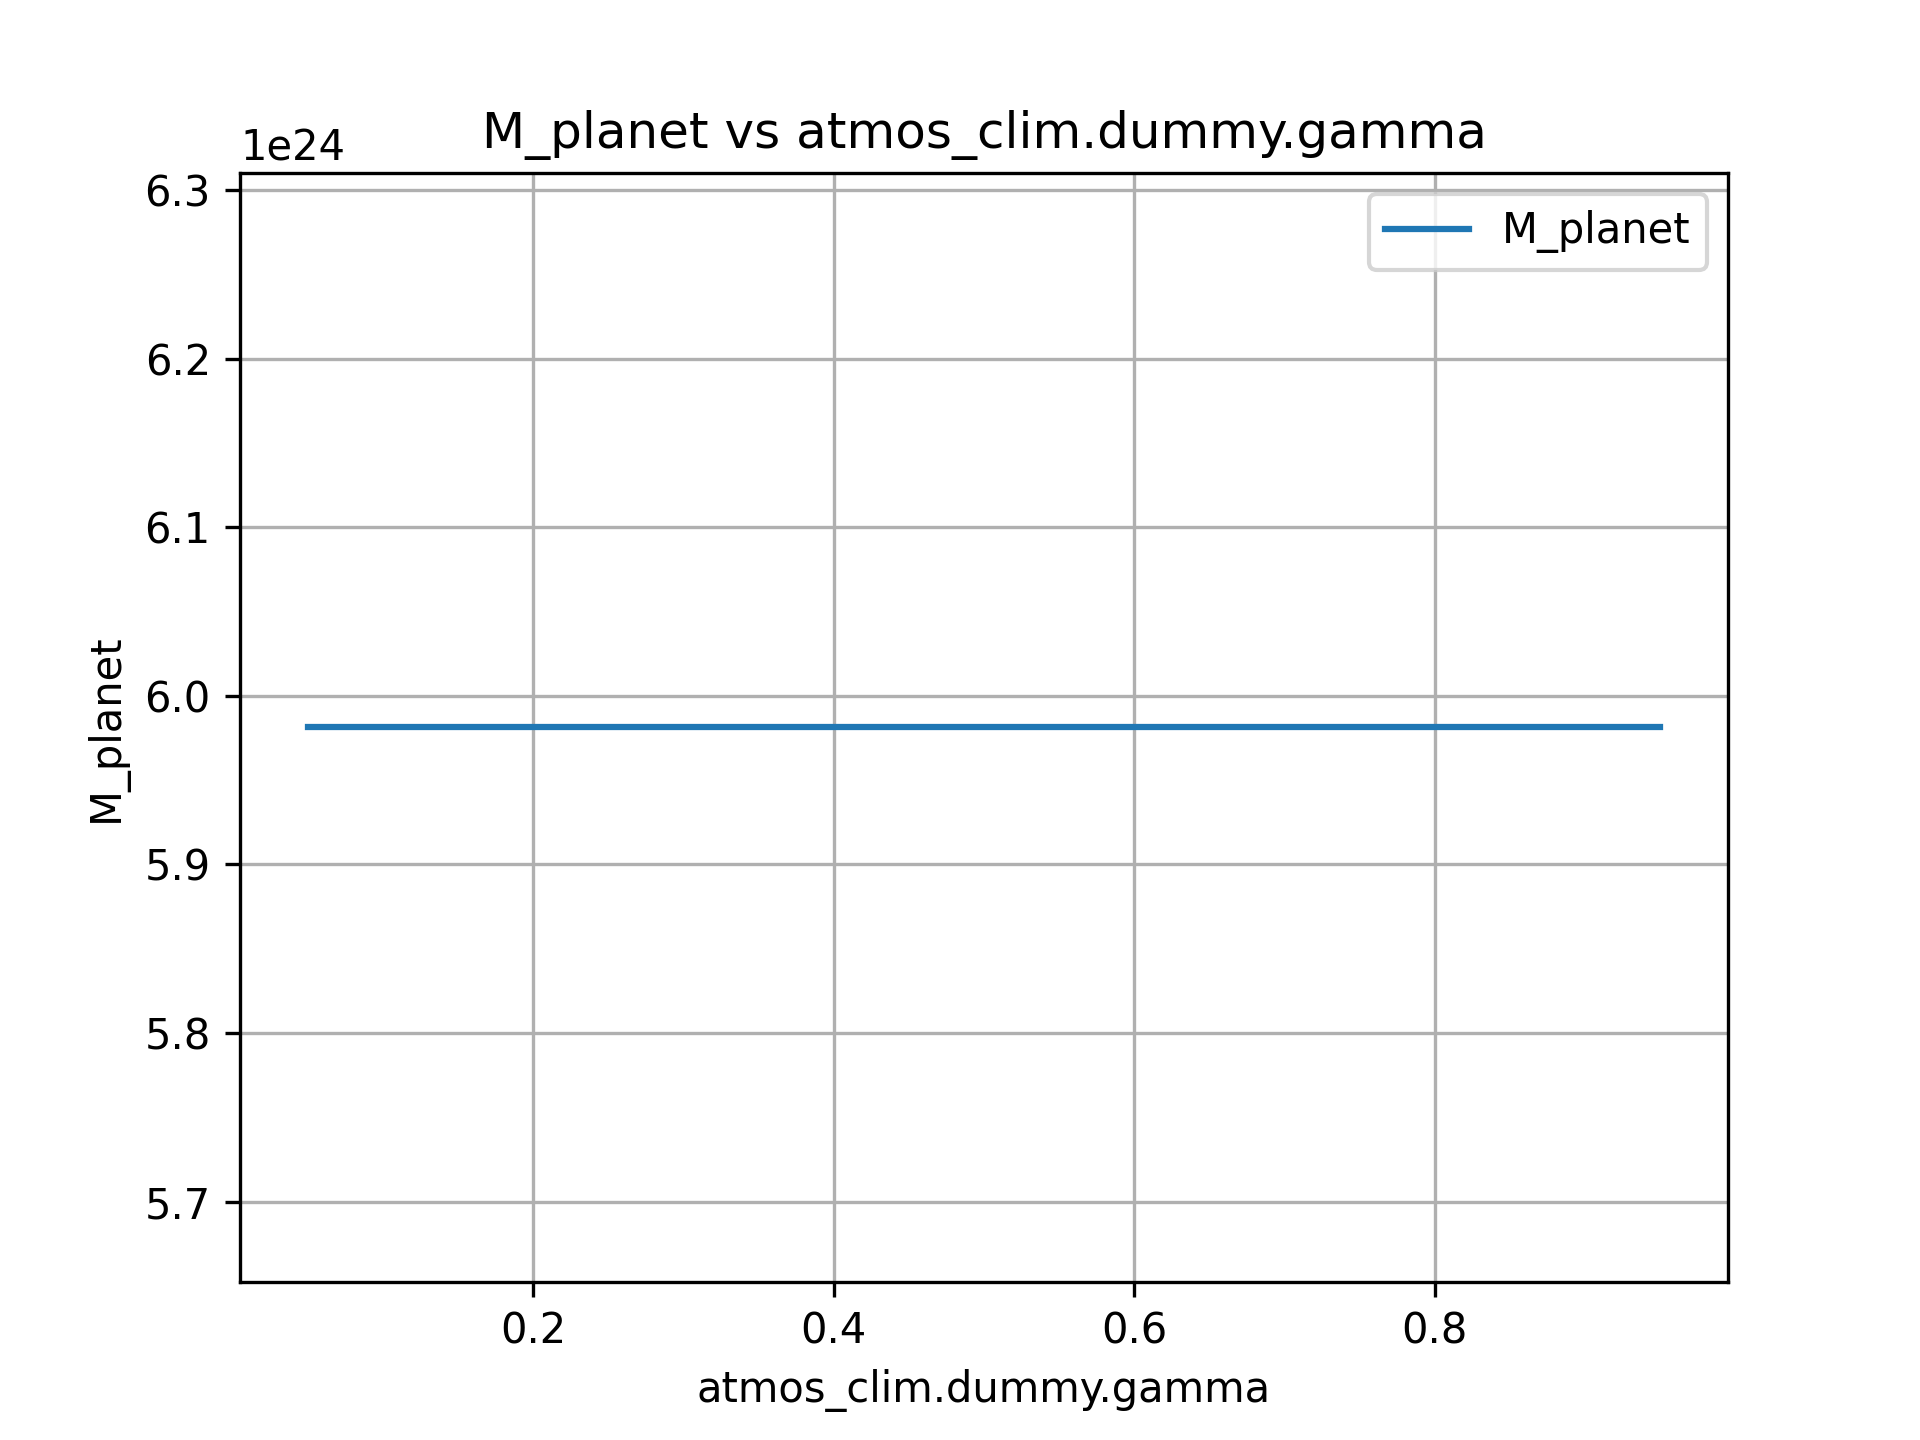
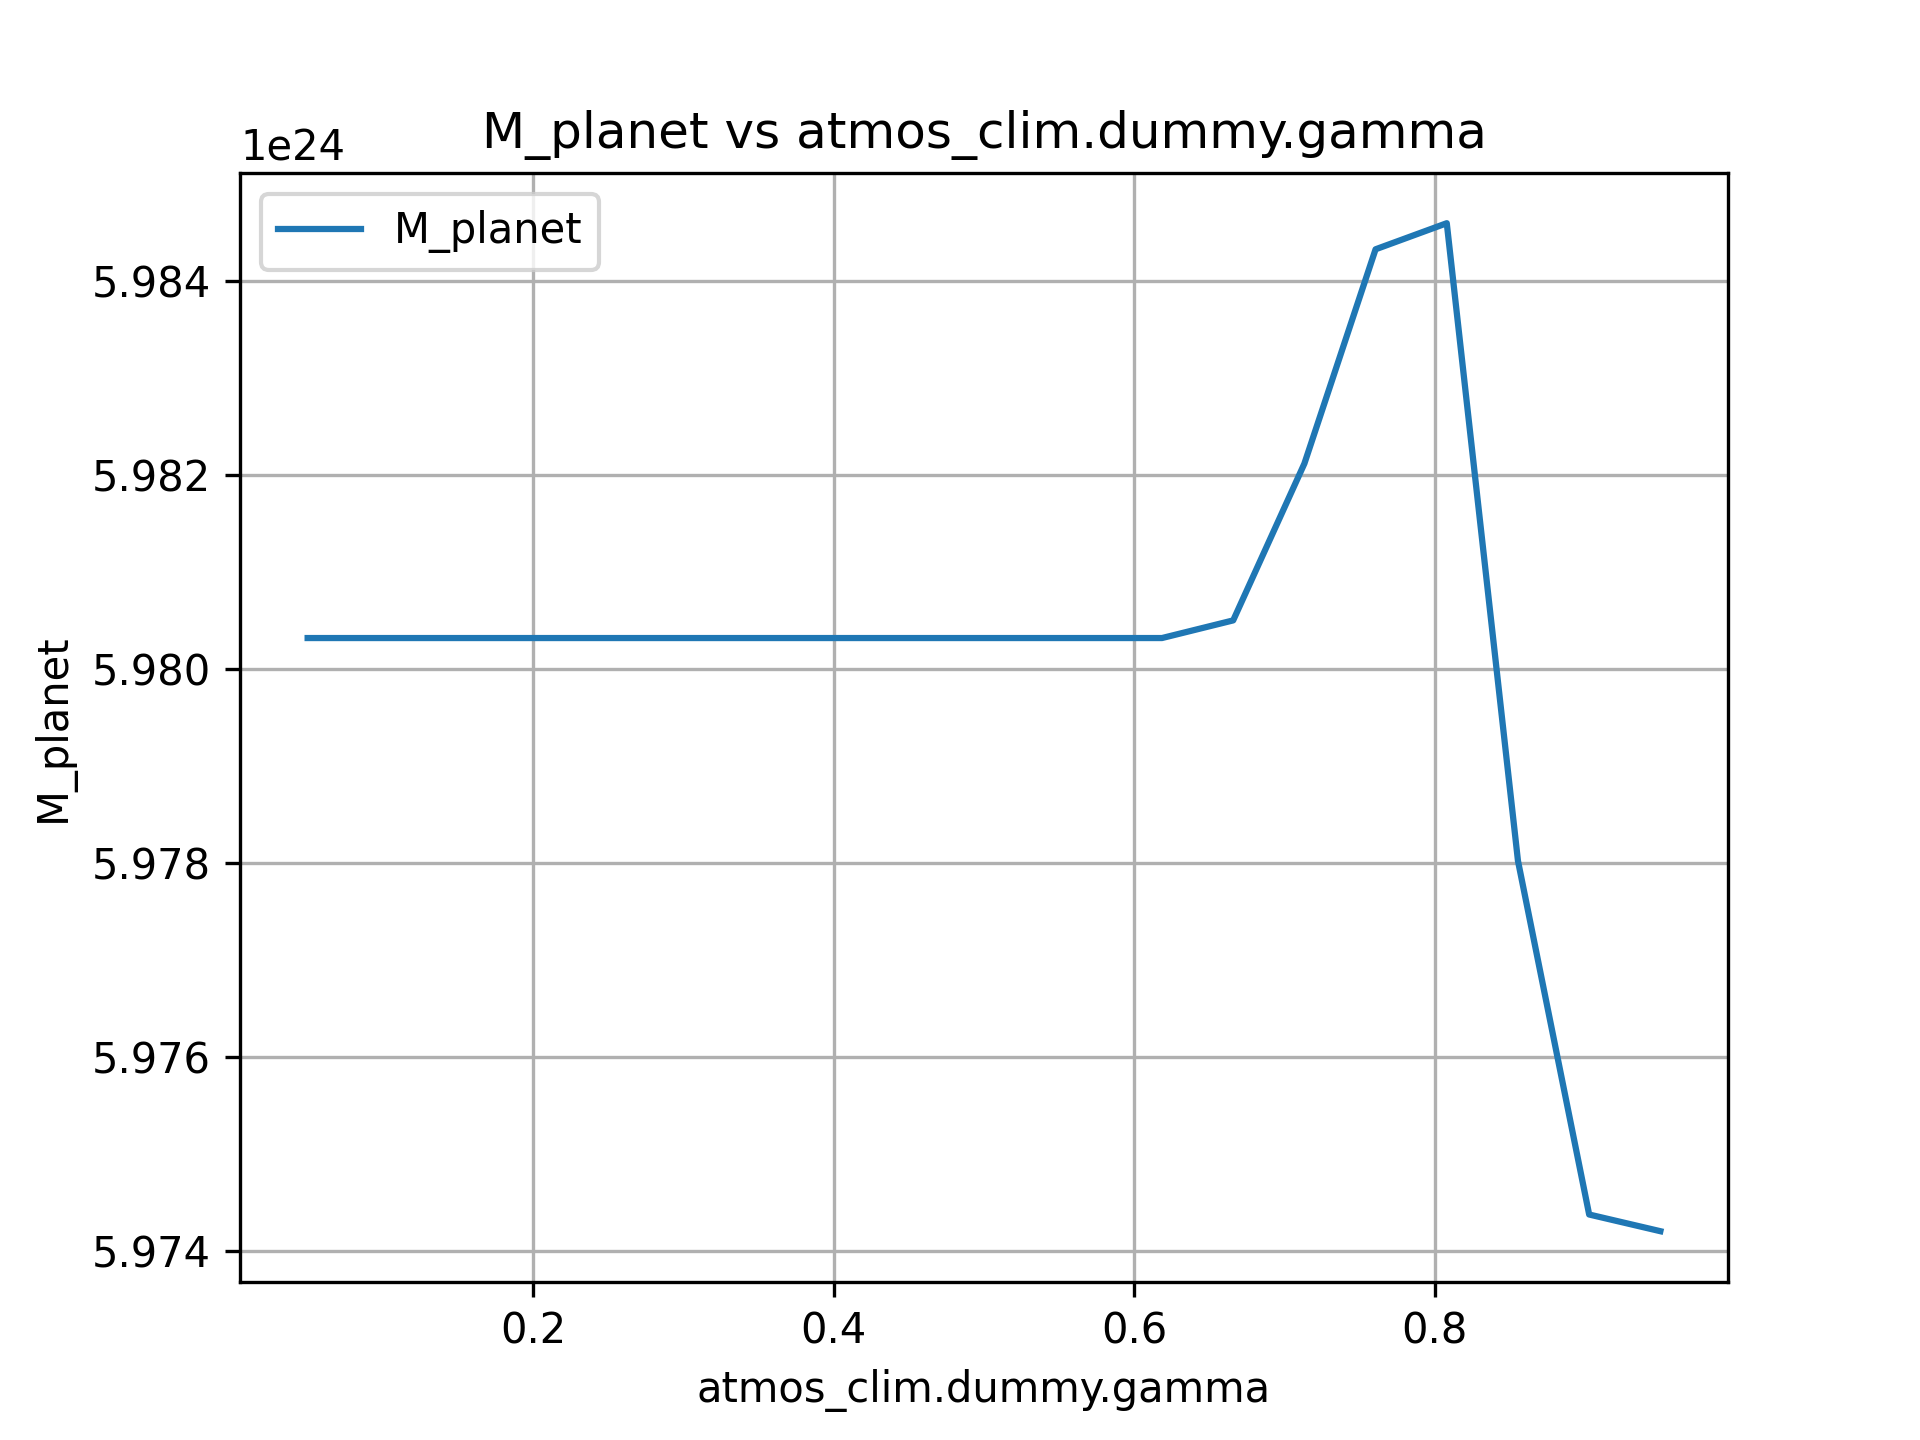
added method to sample data

diff --git a/play_dummy/utils.py b/play_dummy/utils.py
@@ -1,18 +1,30 @@
 import toml
 import subprocess
 import pandas as pd
+import numpy as np
+from tqdm import tqdm
 
-def run_proteus(config_file, output_file):
+def run_proteus(config_file, output_file, observables = None):
     """
     Run the simulator using a .toml configuration file and return the results as a DataFrame.
 
     Parameters:
         config_file (str): Path to the .toml configuration file.
         output_file (str): Path to the simulator's output .csv file.
+        observables (list): PROTEUS output to be returned
 
     Returns:
         pd.DataFrame: Output data loaded into a Pandas DataFrame.
     """
+
+    # the default output
+    if observables == None:
+        observables = [    "z_obs",
+                            "R_int",
+                            "M_planet",
+                            "transit_depth",
+                            "bond_albedo",
+                            "contrast_ratio"]
 
     # Run the simulator as a subprocess
     try:
@@ -30,13 +42,92 @@ def run_proteus(config_file, output_file):
     except FileNotFoundError:
         raise RuntimeError(f"Output file {output_file} not found. Check the simulator configuration.")
 
-    out = df.iloc[-1][[    "z_obs",
-                            "R_int",
-                            "M_planet",
-                            "transit_depth",
-                            "bond_albedo",
-                            "contrast_ratio"]]
-    return out
+    out = df.iloc[-1][observables]
+    return out.T
+
+
+def sample_proteus(n, parameters = None, observables = None):
+
+    """
+    Inputs:
+        n (int): The number of samples to draw
+        parameters (dict | None): If supplied, a dictionary of parameters to sample and their ranges.
+        observables (list | None): If supplied, a list of observables to return.
+
+    Outputs:
+        X (pd.DataFrame): Sampled inputs
+        Y (pd.DataFrame): Calculated outputs
+    """
+
+    # set up paths for calling run_proteus
+    # config and output files will always be overwritten
+
+    # the reference config file
+    dummy_path = "input/demos/dummy.toml"
+
+    # name of new config file
+    run_name = "sample_synth_data"
+
+    # path to new config file (will be created automatically)
+    config_path = "input/gen_synth/" + run_name + ".toml"
+
+    # path to proteus output
+    out_path = "output/" + run_name + "/runtime_helpfile.csv"
+
+    if parameters == None:
+
+        parameters = {"struct.mass_tot": [0.5, 3.0],
+                        "struct.corefrac": [0.3, 0.9],
+
+                        "atmos_clim.surf_greyalbedo": [0.0, 0.51],
+                        "atmos_clim.dummy.gamma": [0.05, 0.95],
+
+                        "escape.dummy.rate": [0.0, 1e5],
+
+                        "interior.dummy.magma": [2000, 4500],
+
+                        "outgas.fO2_shift_IW": [-4.0, 4.0],
+
+                        "delivery.radio_K": [50, 400],
+                        "delivery.elements.H_oceans": [0.5, 18]}
+
+    if observables == None:
+
+        observables = [ "z_obs",
+                        "R_int",
+                        "M_planet",
+                        "transit_depth",
+                        "bond_albedo",
+                        "contrast_ratio"]
+
+    X = []
+    Y = []
+
+    for sample in tqdm(range(n)):
+
+        update_params = {"params.out.path": run_name}
+
+        xs = []
+        for paramter, ran in parameters.items():
+
+            x = np.random.uniform(ran[0], ran[1])
+
+            xs.append(x)
+            update_params[paramter] = x
+
+        X.append(xs)
+
+        update_toml(dummy_path, update_params, config_path)
+
+        ys = run_proteus(config_path, out_path, observables)
+        Y.append(ys)
+
+    X = pd.DataFrame(X, columns=parameters.keys())
+    Y = pd.DataFrame(Y, columns=observables)
+
+    return X, Y
+
+
 
 def update_toml(config_file, updates, output_file=None):
     """

diff --git a/play_dummy/gen_synth.py b/play_dummy/gen_synth.py
@@ -9,11 +9,16 @@ import os
 # run from PROTEUS directory with: python play_dummy/gen_synth.py
 # creates plots and csv files with synthetic data by varying one parameter and keeping all else fixed at dummy config
 
-
+# the refernce config file
 dummy_path = "input/demos/dummy.toml"
 
+# name of new config file
 run_name = "gen_synth_data"
+
+# path to new config file (will be created automatically)
 config_path = "input/gen_synth/" + run_name + ".toml"
+
+# path to proteus output
 out_path = "output/" + run_name + "/runtime_helpfile.csv"
 
 observables = [ "z_obs",
@@ -42,12 +47,13 @@ for parameter, ran in parameters.items():
 
     index = np.linspace(ran[0], ran[1], 20)
 
-    graph_df = pd.DataFrame(columns=(["index"].append(observables)))
+    #graph_df = pd.DataFrame(columns=["index"].append(observables))
+    data = []
 
     print(f"\nGenerating data by varying {parameter}\n")
 
     for i in tqdm(index):
-        dummy_params = {   "params.out.path": run_name,
+        update_params = {   "params.out.path": run_name,
 
                             "struct.mass_tot": 1.0,
                             "struct.corefrac": 0.55,
@@ -64,8 +70,6 @@ for parameter, ran in parameters.items():
                             "delivery.radio_K": 310.0,
                             "delivery.elements.H_oceans": 6.0}
 
-        update_params = dummy_params
-
         update_params[parameter] = i
 
         # uptdate config file
@@ -75,7 +79,14 @@ for parameter, ran in parameters.items():
 
         out["index"] = i
 
-        graph_df = pd.concat([graph_df, out.to_frame().T], ignore_index=True)
+        out = out.to_list()
+
+        #graph_df = pd.concat([graph_df, out], ignore_index=True)
+        data.append(out)
+
+    col_names = observables + ["index"]
+
+    data = pd.DataFrame(data, columns=col_names)
 
     # save data
     name = f"{parameter}.csv"
@@ -83,13 +94,13 @@ for parameter, ran in parameters.items():
     os.makedirs(direct, exist_ok=True)
 
     path = os.path.join(direct,name)
-    graph_df.to_csv(path, sep= "\t",index=False)
+    data.to_csv(path, sep= "\t",index=False)
 
 
-    for observable in graph_df.columns[:-1]:
+    for observable in data.columns[:-1]:
 
         plt.figure()
-        plt.plot(index, graph_df[observable], label=observable)
+        plt.plot(index, data[observable], label=observable)
         plt.title(f'{observable} vs {parameter}')
         plt.xlabel(f"{parameter}")
         plt.ylabel(observable)

diff --git a/play_dummy/run_wrapper.py b/play_dummy/run_wrapper.py
@@ -7,23 +7,39 @@ dummy_path = "input/demos/dummy.toml"
 run_name = "temp3"
 
 # if you get the name wrong it will create a new parameter!
+# update_params = {   "params.out.path": run_name,
+
+#                     "struct.mass_tot": 1.0,
+#                     "struct.corefrac": 0.55,
+
+#                     "atmos_clim.surf_greyalbedo": 0.1,
+#                     "atmos_clim.dummy.gamma": 0.2,
+
+#                     "escape.dummy.rate": 2.0e4,
+
+#                     "interior.dummy.magma": 3500,
+
+#                     "outgas.fO2_shift_IW": 2,
+
+#                     "delivery.radio_K": 310.0,
+#                     "delivery.elements.H_oceans": 6.0}
+
 update_params = {   "params.out.path": run_name,
 
-                    "struct.mass_tot": 1.0,
-                    "struct.corefrac": 0.55,
+                    "struct.mass_tot": 2.1382795033572477,
+                    "struct.corefrac": 0.32958394089386567,
 
-                    "atmos_clim.surf_greyalbedo": 0.1,
-                    "atmos_clim.dummy.gamma": 0.2,
+                    "atmos_clim.surf_greyalbedo": 0.5003406839007034,
+                    "atmos_clim.dummy.gamma": 0.5725611762292598,
 
-                    "escape.dummy.rate": 2.0e4,
+                    "escape.dummy.rate": 55222.03436489329,
 
-                    "interior.dummy.magma": 3500,
+                    "interior.dummy.magma": 3529.0900543527023,
 
-                    "outgas.fO2_shift_IW": 2,
+                    "outgas.fO2_shift_IW": -0.9705082463067676,
 
-                    "delivery.radio_K": 310.0,
-                    "delivery.elements.H_oceans": 6.0}
-
+                    "delivery.radio_K": 267.84079438731965,
+                    "delivery.elements.H_oceans": 8.643922254864316}
 
 config_path = "input/demos/" + run_name + ".toml"
 

diff --git a/play_dummy/sample_data.py b/play_dummy/sample_data.py
@@ -1,0 +1,50 @@
+from utils import sample_proteus
+
+import os
+
+# generate data by sampling inputs uniformly from their range
+
+# observables to sample
+observables = [ "z_obs",
+                "R_int",
+                "M_planet",
+                "transit_depth",
+                "bond_albedo",
+                "contrast_ratio"]
+
+# parameters to sample and their ranges
+parameters = {  "struct.mass_tot": [0.5, 3.0],
+                "struct.corefrac": [0.3, 0.9],
+
+                "atmos_clim.surf_greyalbedo": [0.0, 0.51],
+                "atmos_clim.dummy.gamma": [0.05, 0.95],
+
+                "escape.dummy.rate": [0.0, 1e5],
+
+                "interior.dummy.magma": [2000, 4500],
+
+                "outgas.fO2_shift_IW": [-4.0, 4.0],
+
+                "delivery.radio_K": [50, 400],
+                "delivery.elements.H_oceans": [0.5, 18]}
+# number of samples
+n = 10
+
+
+# generate samples
+X, Y = sample_proteus(n, parameters, observables)
+
+# save data
+name_x = "sampled_input.csv"
+name_y = "sampled_output.csv"
+
+direct = "play_dummy/synth_data"
+os.makedirs(direct, exist_ok=True)
+
+path_x = os.path.join(direct,name_x)
+path_y = os.path.join(direct,name_y)
+
+X.to_csv(path_x, sep= "\t",index=False)
+Y.to_csv(path_y, sep= "\t",index=False)
+
+print("done")

diff --git a/src/proteus/atmos_clim/dummy.py b/src/proteus/atmos_clim/dummy.py
@@ -23,7 +23,7 @@ def RunDummyAtm( dirs:dict, config:Config, T_magma:float, F_ins:float, R_int:flo
     #    surface, relative to the surface temperature itself
     # Setting this to 0 will result in an entirely transparent atmosphere
     # Setting this to 1 will result in an OLR of zero
-    gamma           = 0.7
+    gamma = config.atmos_clim.dummy.gamma
 
     # Parameters
     zenith_angle    = config.orbit.zenith_angle
